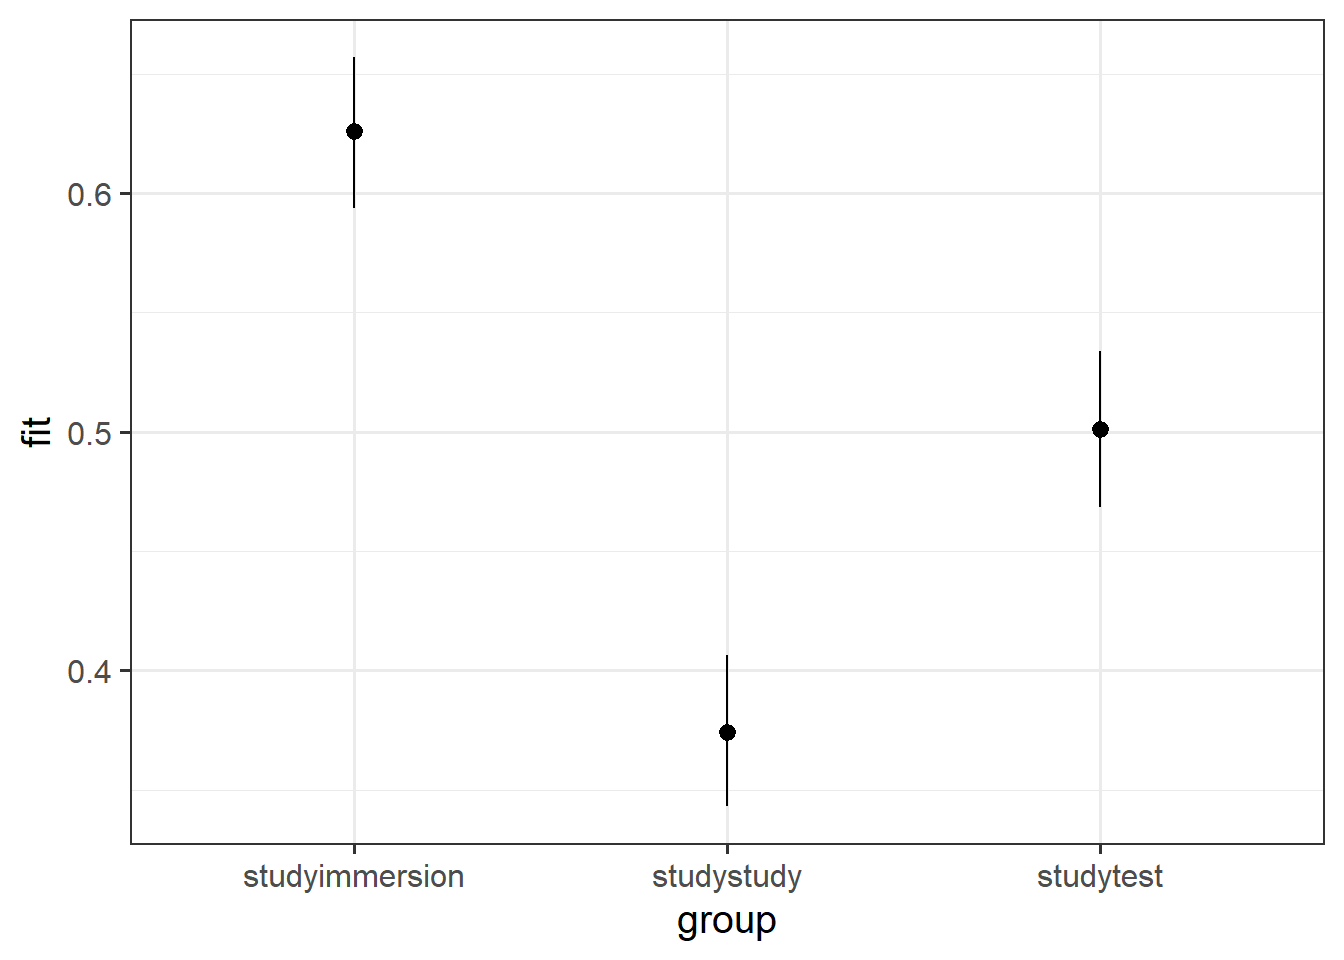
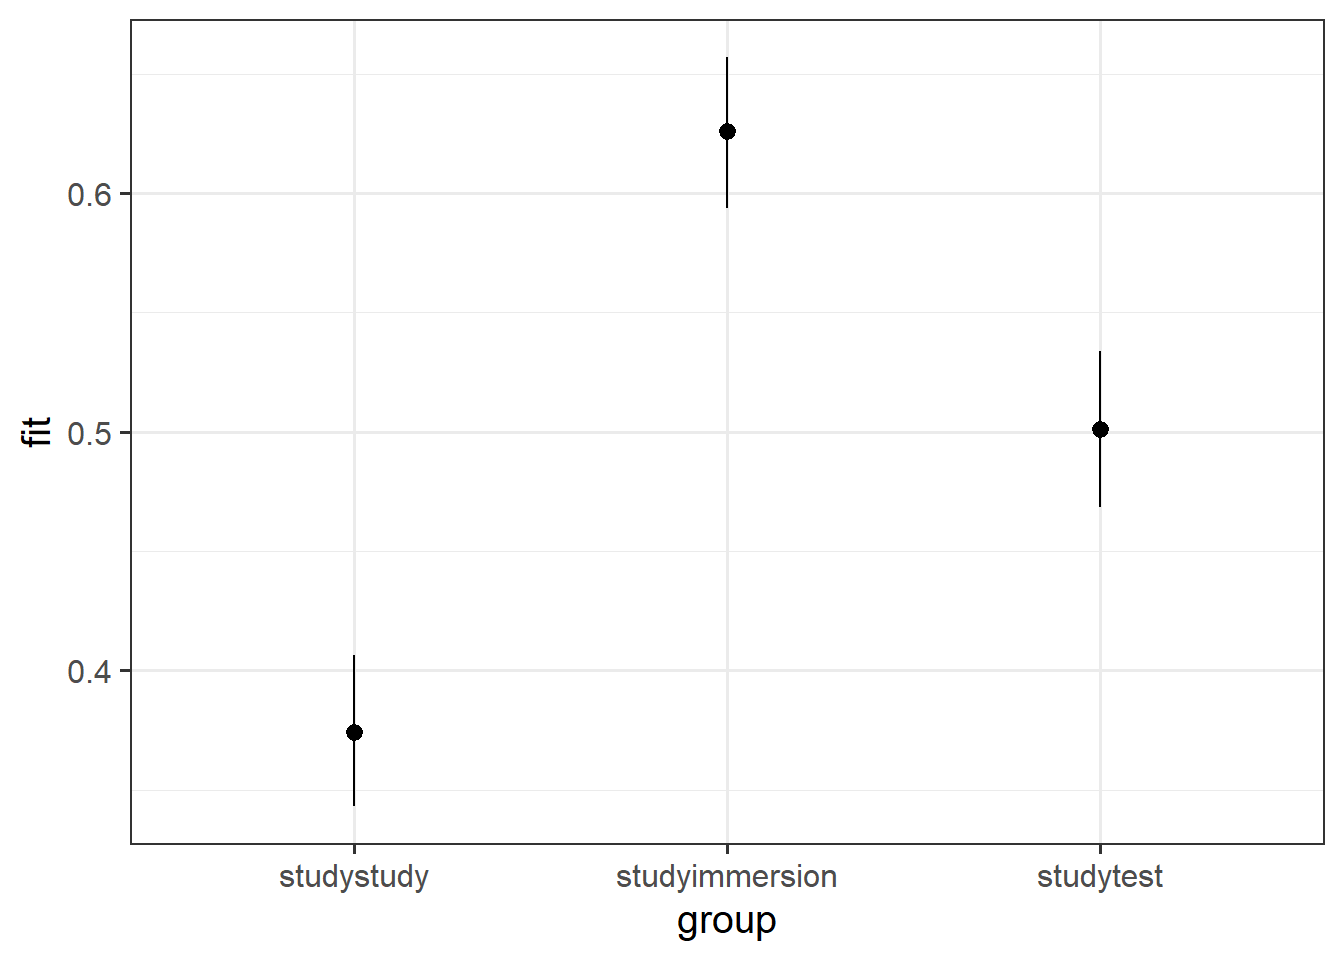
fix labs post tutor prep

diff --git a/docs/2526/labs2011211-2015-101519918-61518-1-16189265/10_ex.html b/docs/2526/labs2011211-2015-101519918-61518-1-16189265/10_ex.html
@@ -7,7 +7,7 @@
 <meta name="viewport" content="width=device-width, initial-scale=1.0, user-scalable=yes">
 
 
-<title>Exercises: GLM – USMR</title>
+<title>W10: GLM – USMR</title>
 <style>
 code{white-space: pre-wrap;}
 span.smallcaps{font-variant: small-caps;}
@@ -237,7 +237,7 @@ window.Quarto = {
   </li>  
         <li>
     <a class="dropdown-item" href="./10_ex.html">
- <span class="dropdown-text">Exercises: GLM</span></a>
+ <span class="dropdown-text">W10: GLM</span></a>
   </li>  
     </ul>
   </li>
@@ -268,7 +268,7 @@ window.Quarto = {
 
 <header id="title-block-header" class="quarto-title-block default">
 <div class="quarto-title">
-<h1 class="title">Exercises: GLM</h1>
+<h1 class="title">W10: GLM</h1>
 </div>
 
 
@@ -3024,7 +3024,7 @@ Question 12
 </div>
 <div class="question-body">
 <p>Write up the methods and results, providing a plot and regression table.</p>
-<p>A template RMarkown file can be found at <a href="https://uoepsy.github.io/usmr/2324/misc/marshmallows.Rmd" target="_blank">https://uoepsy.github.io/usmr/2324/misc/marshmallows.Rmd</a> if you want it. It contains a list of questions try and make sure you answer in your write-up.</p>
+<p>A template RMarkown file can be found at <a href="https://uoepsy.github.io/usmr/2324/misc/marshmallows.Rmd" target="_blank">here</a> if you want it. It contains a list of questions try and make sure you answer in your write-up.</p>
 </div>
 <p class="question-end">
 </p>
@@ -3586,7 +3586,7 @@ Solution
 <div class="sourceCode cell-code" id="cb38"><pre class="sourceCode r code-with-copy"><code class="sourceCode r"><span id="cb38-1"><a href="#cb38-1" aria-hidden="true" tabindex="-1"></a>immers <span class="ot">&lt;-</span> <span class="fu">read_csv</span>(<span class="st">"https://uoepsy.github.io/data/immersivelearning.csv"</span>)</span>
 <span id="cb38-2"><a href="#cb38-2" aria-hidden="true" tabindex="-1"></a></span>
 <span id="cb38-3"><a href="#cb38-3" aria-hidden="true" tabindex="-1"></a>immers <span class="ot">&lt;-</span> immers <span class="sc">|&gt;</span> <span class="fu">mutate</span>(</span>
-<span id="cb38-4"><a href="#cb38-4" aria-hidden="true" tabindex="-1"></a>  <span class="fu">fct_relevel</span>(<span class="fu">factor</span>(group), <span class="st">"studystudy"</span>)</span>
+<span id="cb38-4"><a href="#cb38-4" aria-hidden="true" tabindex="-1"></a>  <span class="at">group =</span> <span class="fu">fct_relevel</span>(<span class="fu">factor</span>(group), <span class="st">"studystudy"</span>)</span>
 <span id="cb38-5"><a href="#cb38-5" aria-hidden="true" tabindex="-1"></a>)</span>
 <span id="cb38-6"><a href="#cb38-6" aria-hidden="true" tabindex="-1"></a></span>
 <span id="cb38-7"><a href="#cb38-7" aria-hidden="true" tabindex="-1"></a>mst1 <span class="ot">=</span> <span class="fu">glm</span>(<span class="fu">cbind</span>(n_correct,<span class="dv">30</span><span class="sc">-</span>n_correct) <span class="sc">~</span> plle<span class="sc">+</span>cog_apt<span class="sc">+</span>group,</span>
@@ -3600,12 +3600,12 @@ glm(formula = cbind(n_correct, 30 - n_correct) ~ plle + cog_apt +
     group, family = binomial, data = immers)
 
 Coefficients:
-                Estimate Std. Error z value Pr(&gt;|z|)    
-(Intercept)      0.60154    0.10591   5.680 1.35e-08 ***
-pllenovice      -0.10897    0.09905  -1.100    0.271    
-cog_apt         -0.03194    0.03725  -0.857    0.391    
-groupstudystudy -1.02919    0.09798 -10.504  &lt; 2e-16 ***
-groupstudytest  -0.51064    0.09661  -5.286 1.25e-07 ***
+                    Estimate Std. Error z value Pr(&gt;|z|)    
+(Intercept)         -0.42764    0.10212  -4.188 2.82e-05 ***
+pllenovice          -0.10897    0.09905  -1.100    0.271    
+cog_apt             -0.03194    0.03725  -0.857    0.391    
+groupstudyimmersion  1.02919    0.09798  10.504  &lt; 2e-16 ***
+groupstudytest       0.51854    0.09612   5.395 6.87e-08 ***
 ---
 Signif. codes:  0 '***' 0.001 '**' 0.01 '*' 0.05 '.' 0.1 ' ' 1
 
@@ -3671,7 +3671,7 @@ Hints
 <ul>
 <li><code>glm(outcome ~ ., data = mydata)</code> is a shorthand way of putting <em>all</em> variables in the data in as predictors.<br>
 </li>
-<li>See these <a href="https://uoepsy.github.io/usmr/2324/lectures/lecture09.html#/accuracy" target="_blank">lecture slides (from 2023</a> for an example of how we can get a number for “how accurately can my model predict”.</li>
+<li>See these <a href="https://uoepsy.github.io/usmr/2324/lectures/lecture09.html#/accuracy" target="_blank">lecture slides (from 2023)</a> for an example of how we can get a number for “how accurately can my model predict”.</li>
 </ul>
 </div>
 </div>

diff --git a/docs/2526/labs/10_ex.html b/docs/2526/labs/10_ex.html
@@ -237,7 +237,7 @@ window.Quarto = {
   </li>  
         <li>
     <a class="dropdown-item" href="./10_ex.html">
- <span class="dropdown-text">Exercises: GLM</span></a>
+ <span class="dropdown-text">W10: GLM</span></a>
   </li>  
     </ul>
   </li>
@@ -2986,7 +2986,7 @@ Question 12
 </div>
 <div class="question-body">
 <p>Write up the methods and results, providing a plot and regression table.</p>
-<p>A template RMarkown file can be found at <a href="https://uoepsy.github.io/usmr/2324/misc/marshmallows.Rmd" target="_blank">https://uoepsy.github.io/usmr/2324/misc/marshmallows.Rmd</a> if you want it. It contains a list of questions try and make sure you answer in your write-up.</p>
+<p>A template RMarkown file can be found at <a href="https://uoepsy.github.io/usmr/2324/misc/marshmallows.Rmd" target="_blank">here</a> if you want it. It contains a list of questions try and make sure you answer in your write-up.</p>
 </div>
 <p class="question-end">
 </p>
@@ -3543,7 +3543,7 @@ Hints
 <div class="sourceCode cell-code" id="cb38"><pre class="sourceCode r code-with-copy"><code class="sourceCode r"><span id="cb38-1"><a href="#cb38-1" aria-hidden="true" tabindex="-1"></a>immers <span class="ot">&lt;-</span> <span class="fu">read_csv</span>(<span class="st">"https://uoepsy.github.io/data/immersivelearning.csv"</span>)</span>
 <span id="cb38-2"><a href="#cb38-2" aria-hidden="true" tabindex="-1"></a></span>
 <span id="cb38-3"><a href="#cb38-3" aria-hidden="true" tabindex="-1"></a>immers <span class="ot">&lt;-</span> immers <span class="sc">|&gt;</span> <span class="fu">mutate</span>(</span>
-<span id="cb38-4"><a href="#cb38-4" aria-hidden="true" tabindex="-1"></a>  <span class="fu">fct_relevel</span>(<span class="fu">factor</span>(group), <span class="st">"studystudy"</span>)</span>
+<span id="cb38-4"><a href="#cb38-4" aria-hidden="true" tabindex="-1"></a>  <span class="at">group =</span> <span class="fu">fct_relevel</span>(<span class="fu">factor</span>(group), <span class="st">"studystudy"</span>)</span>
 <span id="cb38-5"><a href="#cb38-5" aria-hidden="true" tabindex="-1"></a>)</span>
 <span id="cb38-6"><a href="#cb38-6" aria-hidden="true" tabindex="-1"></a></span>
 <span id="cb38-7"><a href="#cb38-7" aria-hidden="true" tabindex="-1"></a>mst1 <span class="ot">=</span> <span class="fu">glm</span>(<span class="fu">cbind</span>(n_correct,<span class="dv">30</span><span class="sc">-</span>n_correct) <span class="sc">~</span> plle<span class="sc">+</span>cog_apt<span class="sc">+</span>group,</span>
@@ -3557,12 +3557,12 @@ glm(formula = cbind(n_correct, 30 - n_correct) ~ plle + cog_apt +
     group, family = binomial, data = immers)
 
 Coefficients:
-                Estimate Std. Error z value Pr(&gt;|z|)    
-(Intercept)      0.60154    0.10591   5.680 1.35e-08 ***
-pllenovice      -0.10897    0.09905  -1.100    0.271    
-cog_apt         -0.03194    0.03725  -0.857    0.391    
-groupstudystudy -1.02919    0.09798 -10.504  &lt; 2e-16 ***
-groupstudytest  -0.51064    0.09661  -5.286 1.25e-07 ***
+                    Estimate Std. Error z value Pr(&gt;|z|)    
+(Intercept)         -0.42764    0.10212  -4.188 2.82e-05 ***
+pllenovice          -0.10897    0.09905  -1.100    0.271    
+cog_apt             -0.03194    0.03725  -0.857    0.391    
+groupstudyimmersion  1.02919    0.09798  10.504  &lt; 2e-16 ***
+groupstudytest       0.51854    0.09612   5.395 6.87e-08 ***
 ---
 Signif. codes:  0 '***' 0.001 '**' 0.01 '*' 0.05 '.' 0.1 ' ' 1
 
@@ -3628,7 +3628,7 @@ Hints
 <ul>
 <li><code>glm(outcome ~ ., data = mydata)</code> is a shorthand way of putting <em>all</em> variables in the data in as predictors.<br>
 </li>
-<li>See these <a href="https://uoepsy.github.io/usmr/2324/lectures/lecture09.html#/accuracy" target="_blank">lecture slides (from 2023</a> for an example of how we can get a number for “how accurately can my model predict”.</li>
+<li>See these <a href="https://uoepsy.github.io/usmr/2324/lectures/lecture09.html#/accuracy" target="_blank">lecture slides (from 2023)</a> for an example of how we can get a number for “how accurately can my model predict”.</li>
 </ul>
 </div>
 </div>

diff --git a/docs/2526/labs2011211-2015-101519918-61518-1-16189265/09_ex.html b/docs/2526/labs2011211-2015-101519918-61518-1-16189265/09_ex.html
@@ -237,7 +237,7 @@ window.Quarto = {
   </li>  
         <li>
     <a class="dropdown-item" href="./10_ex.html">
- <span class="dropdown-text">Exercises: GLM</span></a>
+ <span class="dropdown-text">W10: GLM</span></a>
   </li>  
     </ul>
   </li>
